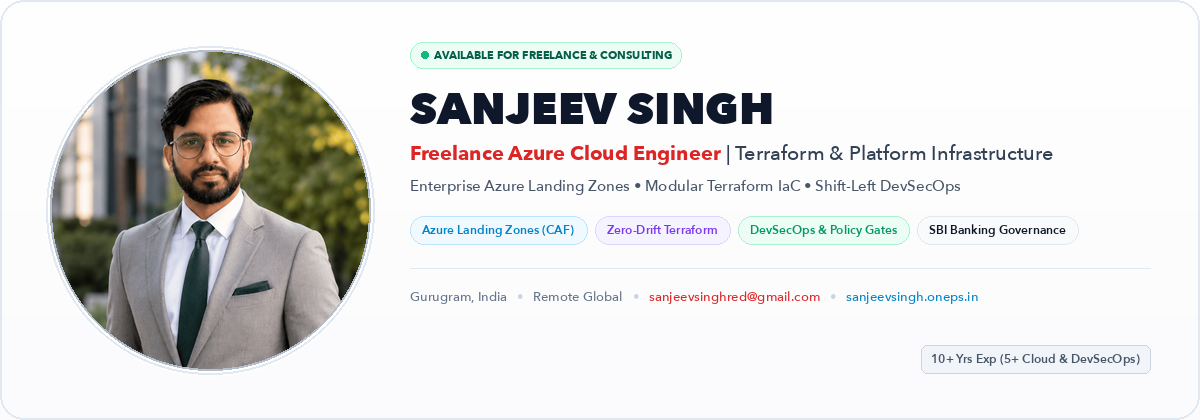
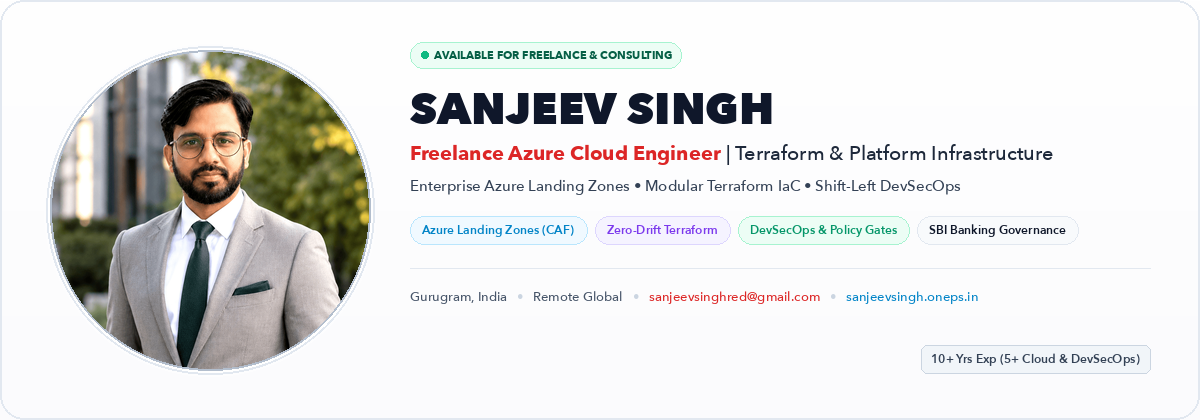
feat(header): add animated radar card with dark typography and fair-filtered studio portrait
- Apply fair, balanced studio filter to profile portrait in hero banner
- Enhance contrast, brightness, and natural skin tones true to original picture
- Introduce assets/header-animation.svg with cycling capabilities, beacon pulse, and dark charcoal font
- Optimize layout spacing, typography hierarchy, and asset guide documentation

diff --git a/docs/asset-guide.md b/docs/asset-guide.md
@@ -10,16 +10,17 @@
 
 | Asset Name | Relative Path | File Format | Dimensions / Size | Source / Creation Method | Intended Use & Placement |
 | :--- | :--- | :---: | :---: | :--- | :--- |
-| **Hero Banner** | `assets/banner.png` | PNG | 1200 × 420 px (~205 KB) | Custom Python PIL compositor using authentic profile photo (`profile.png`), Avenir Next typography, status indicator, and domain badges. Pure light background with **zero dots**. | Top of GitHub profile README. Represents primary personal brand and value proposition. |
-| **Hero Banner (Master)** | `assets/banner-light.png` | PNG | 1200 × 420 px (~205 KB) | Identical high-resolution light-theme master. | Static fallback and high-DPI display asset. |
-| **Consulting Services Matrix** | `assets/services-matrix.png` | PNG | 1200 × 330 px (~85 KB) | 4-column modular infographic card highlighting consulting pillars (Azure CAF, GenAI, DevSecOps, AKS Platform). | Section 4: Freelance Services & Business Outcomes. |
-| **DevSecOps Quality Gates** | `assets/devsecops-gates.png` | PNG | 1200 × 250 px (~65 KB) | 6-stage shift-left security verification gates card with geometric checkmarks. | Section 6: Automated Shift-Left DevSecOps Delivery Gates. |
-| **Architecture Pillars** | `assets/architecture-pillars.png` | PNG | 1200 × 280 px (~75 KB) | 4-column production standards card (100% Code-Driven, Zero-Trust, Governance, Resilience). | Section 4: Production Standards & Engineering Pillars. |
+| **Hero Banner** | `assets/banner.png` | PNG | 1200 × 420 px (~203 KB) | Custom Python PIL compositor using authentic fair-filtered studio portrait (`profile.png`), Avenir Next typography, status indicator, and domain badges. Pure light background with **zero dots**. | Top of GitHub profile README. Represents primary personal brand and value proposition. |
+| **Hero Banner (Master)** | `assets/banner-light.png` | PNG | 1200 × 420 px (~203 KB) | Identical high-resolution light-theme master. | Static fallback and high-DPI display asset. |
+| **Live Header Animation** | `assets/header-animation.svg` | SVG | Scalable Vector (~8 KB) | Pure CSS-animated live radar card featuring real-time cycling capabilities with high-contrast dark fonts (`#0F172A`), beacon pulse, stream progress bar, and blinking cursor. | Top header section directly under contact buttons. |
+| **Consulting Services Matrix** | `assets/services-matrix.png` | PNG | 1200 × 330 px (~42 KB) | 4-column modular infographic card highlighting consulting pillars (Azure CAF, GenAI, DevSecOps, AKS Platform). | Section 4: Freelance Services & Business Outcomes. |
+| **DevSecOps Quality Gates** | `assets/devsecops-gates.png` | PNG | 1200 × 250 px (~31 KB) | 6-stage shift-left security verification gates card with geometric checkmarks. | Section 6: Automated Shift-Left DevSecOps Delivery Gates. |
+| **Architecture Pillars** | `assets/architecture-pillars.png` | PNG | 1200 × 280 px (~39 KB) | 4-column production standards card (100% Code-Driven, Zero-Trust, Governance, Resilience). | Section 4: Production Standards & Engineering Pillars. |
 | **Profile Photograph** | `assets/profile.png` | PNG | 1086 × 1448 px (747 KB) | Original authentic studio portrait of Sanjeev Singh in formal business attire. | Base image for composite header banners, portfolio avatars, and media previews. |
 | **DevSecOps Pipeline Diagram** | `assets/devsecops-pipeline.svg` | SVG | Scalable Vector (13.4 KB) | Hand-crafted vector graphic with CSS dash-stream flow animations and status indicators. | Section 6: DevSecOps pipeline visualization inside README. |
 | **Platform Video Preview** | `assets/intro_preview.webp` | WebP | 720 × 405 px (5.9 MB) | Video frame grab with typography overlay and player preview. | Section 9: Video reel poster image linking to portfolio video player and MP4 stream. |
 | **Platform Video Reel** | `assets/intro.mp4` | MP4 | 1080p HD (13.0 MB) | Master video recording featuring platform architecture overview. | Linked direct media file for high-bandwidth client streaming. |
-| **Footer Contact Banner** | `assets/footer.png` | PNG | 1200 × 260 px (~21 KB) | Custom Python PIL composition with 4 modular contact cards (Email, LinkedIn, GitHub, Portfolio). Zero dots. | Bottom of README as a cohesive professional closing invitation. |
+| **Footer Contact Banner** | `assets/footer.png` | PNG | 1200 × 260 px (~20 KB) | Custom Python PIL composition with 4 modular contact cards (Email, LinkedIn, GitHub, Portfolio). Zero dots. | Bottom of README as a cohesive professional closing invitation. |
 | **Contribution Grid Snake** | `assets/snake.svg` | SVG | Scalable Vector (27.2 KB) | GitHub Actions automated contribution graph animation generator. | Profile activity and continuous engineering proof. |
 
 ---

diff --git a/README.md b/README.md
@@ -1,6 +1,6 @@
 <div align="center">
 
-<!-- Hero Banner (Spotless Light Foundation · Editorial Architecture · Zero Dots) -->
+<!-- Hero Banner (Spotless Light Foundation · Fair Filter Studio Portrait · Zero Dots) -->
 <a href="https://sanjeevsingh.oneps.in" target="_blank" rel="noopener noreferrer">
   <img src="./assets/banner.png" alt="Sanjeev Singh - Freelance Azure Cloud Engineer | Terraform & Platform Infrastructure" width="100%">
 </a>
@@ -26,9 +26,9 @@
   </a>
 </p>
 
-<!-- Subtitle / Business Focus -->
+<!-- Live Animated Architecture & Status Radar (Dark Colored Typography · Real-Time Cycling) -->
 <p align="center">
-  <b>Azure Landing Zones (CAF)</b> • <b>Production Terraform IaC</b> • <b>Shift-Left DevSecOps</b> • <b>Banking Governance Heritage (SBI)</b>
+  <img src="./assets/header-animation.svg" alt="Live Architecture Radar & Consulting Status" width="100%">
 </p>
 
 </div>
